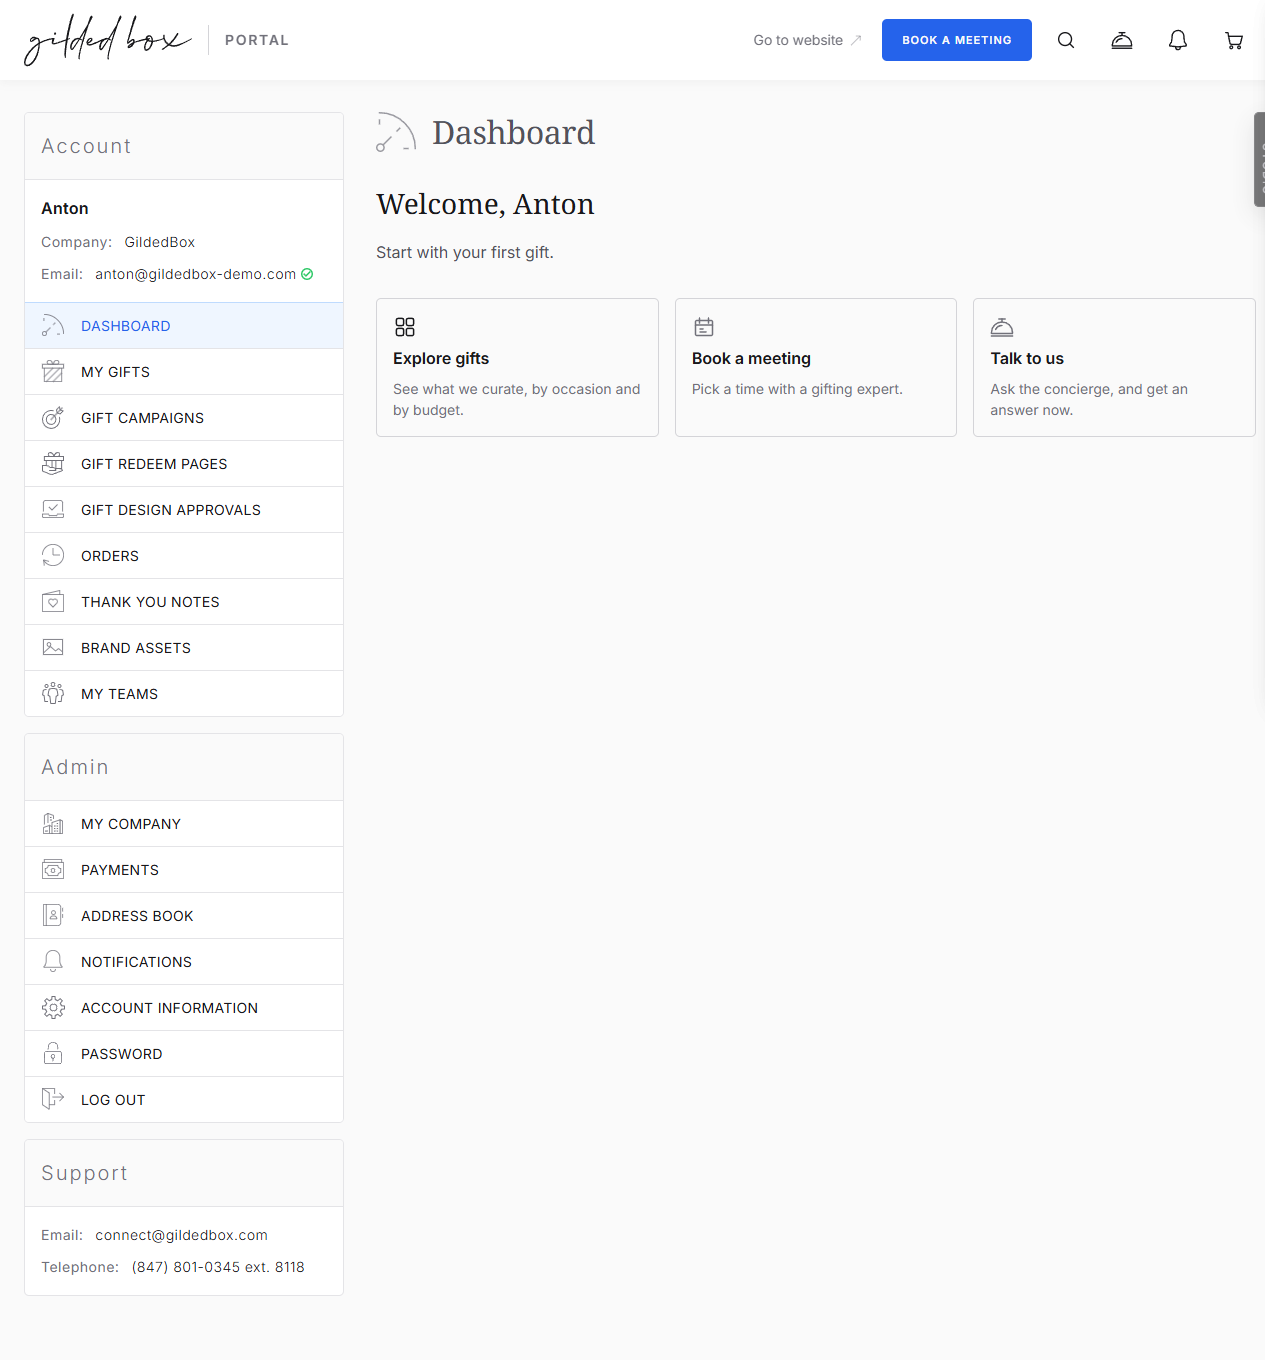
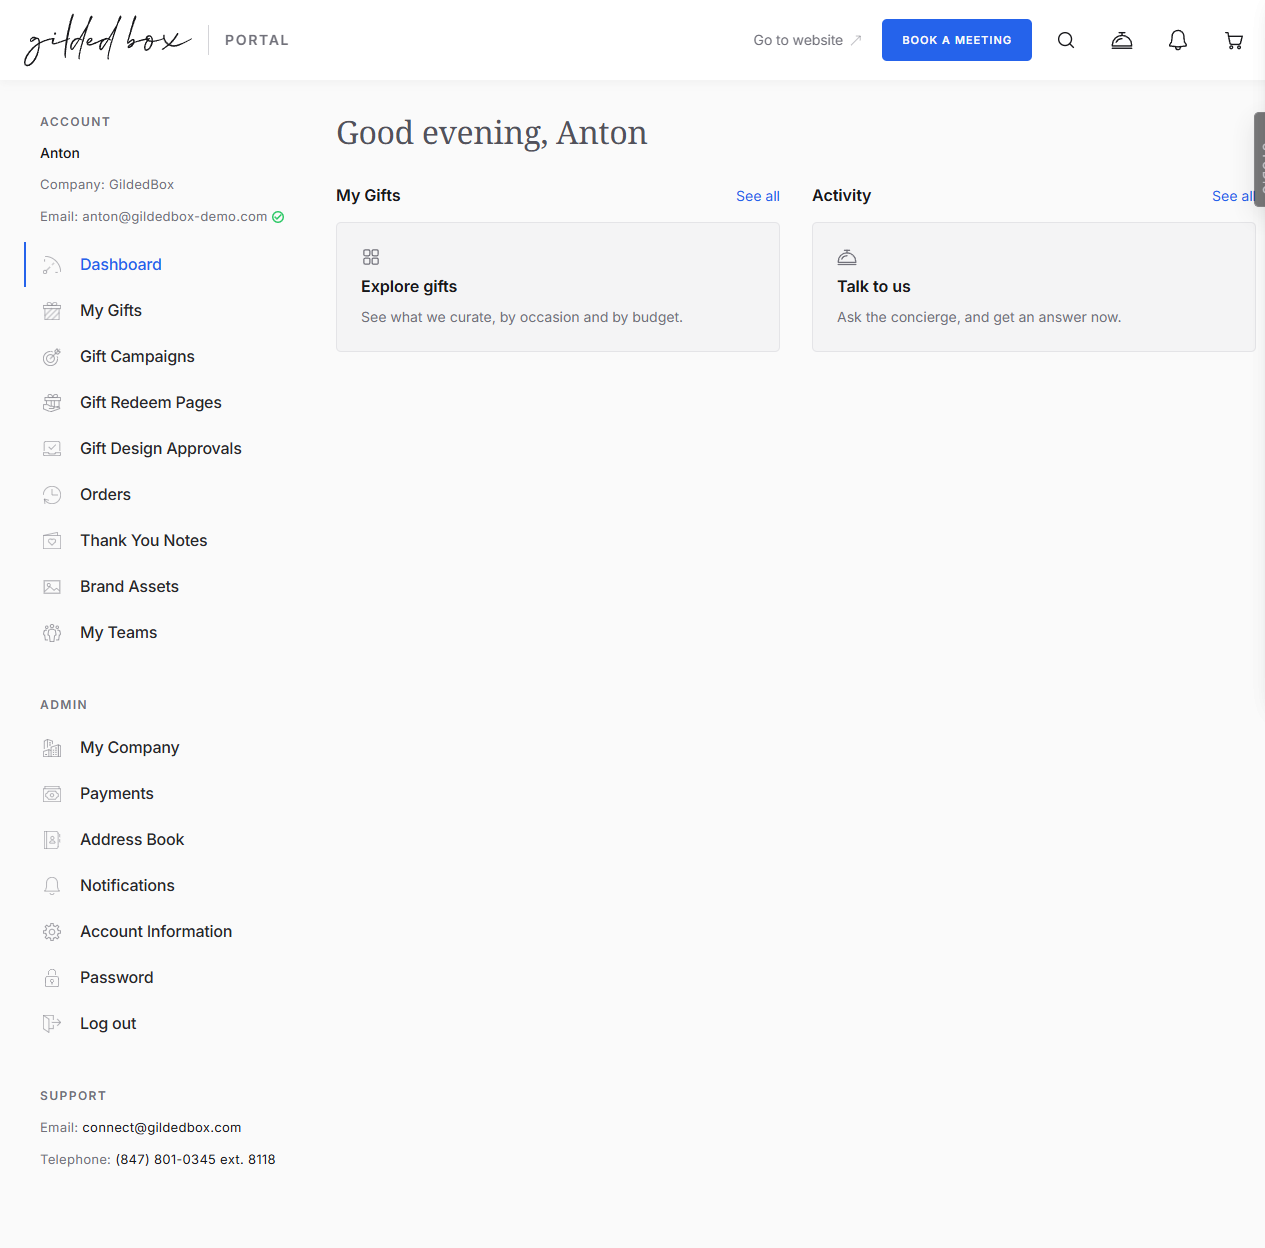
feat(portal): the page opens by greeting you, and a new account has two blocks instead of three
THE TITLE IS THE GREETING NOW, in both states. «Dashboard» left the
canvas because the rail already says where you are, and the recon
Ton read this evening (studio\docs\DASHBOARD-GREETING-RECON.md) found
no confirmed product that prints a page name and a greeting as two
headings: of the two whose first line could be confirmed word for
word, both print the greeting and neither prints the name.

So the slot and the role are unchanged, the live portal's own
.page-title, and what stands in it is Good morning / Good afternoon
/ Good evening with the name, off the machine's own clock at the
ordinary English boundaries (5, 12, 18). There is no second line: no
date, no strapline. The speedometer went with the word it
accompanied, because a glyph beside «Good evening» illustrates
nothing. Customize stays where it was.

THE EMPTY ACCOUNT LOST ITS WELCOME BLOCK, which now says the same
thing in the title, and it lost the Campaigns block entirely: a
campaign is a gift plus a distribution, so there is nothing to
invite someone to create before they own a gift. Two blocks stand
instead of three and the board re-splits by the standard mechanism.

AND THE NEW DEFAULT CAUGHT A BUG BY CHANGING: body[data-nav="ton"]
.sidebar sets 280px at a higher specificity than the bare .sidebar
of the phone rule, so from the moment the boxless rail became the
default, everything under 1024 kept a 280px rail and squeezed the
board to ONE PIXEL. Measured at 360: layout 345, rail 280, board 1.
[…]

diff --git a/live/portal-dashboard.html b/live/portal-dashboard.html
@@ -209,13 +209,6 @@ html { scroll-padding-top: calc(var(--header-h) + var(--space-16)); }
   gap: var(--space-16);
   margin-bottom: var(--space-32);
 }
-.gbppd-head__icon {
-  width: 40px;                  /* LIVE 12.08 portal .title-icon */
-  height: 40px;
-  flex-shrink: 0;
-  display: block;
-  opacity: .7;                  /* the rail draws this glyph at 24; at 40 the same line needs its ink taken down a step */
-}
 .gbppd-title {
   margin: 0;
   font-family: var(--font-serif);
@@ -419,6 +412,13 @@ a.gbppd-act, body.gb-demo a.gbppd-act { color: var(--zinc-900); }
 /* THE EMPTY ACCOUNT: no tabs, no lists, and the door grown up. */
 html[data-gbppd-state="empty"] .gbppd-tabs,
 html[data-gbppd-state="empty"] .gbppd-panes { display: none; }
+/* AND A NEW ACCOUNT HAS NO CAMPAIGNS BLOCK AT ALL (Ton, 10.09): a
+   campaign is a gift plus a distribution, so there is nothing to
+   invite anyone to create before they own a gift. The block does not
+   exist, and the board re-splits into the two that do, by the
+   standard mechanism: a display:none grid item leaves the auto
+   tracks and the rest divide the width. */
+html[data-gbppd-state="empty"] [data-gbppd-widget="campaigns"] { display: none; }
 html[data-gbppd-state="empty"] .gbppd-act {
   flex-direction: column;
   align-items: flex-start;
@@ -1400,7 +1400,14 @@ body[data-nav="ton"] .snav-icon img { max-width: 18px; max-height: 18px; opacity
    at all. Carried across verbatim rather than re-decided. */
 @media (max-width: 1023px) {
   .layout { flex-wrap: wrap; }
-  .sidebar { order: 2; width: 100%; }
+  /* THE BOXLESS RAIL HAS TO BE NAMED HERE TOO, and this is a bug the
+     default caught the moment it changed: body[data-nav="ton"]
+     .sidebar sets 280px at a higher specificity than a bare
+     .sidebar, so under 1024 the rail kept its 280 and the content
+     column was squeezed to ONE PIXEL. Measured, not guessed: at 360
+     the layout was 345 wide, the rail 280 and the board 1. */
+  .sidebar,
+  body[data-nav="ton"] .sidebar { order: 2; width: 100%; }
 }
 
 /* ============================================================
@@ -1417,64 +1424,6 @@ body[data-nav="ton"] .snav-icon img { max-width: 18px; max-height: 18px; opacity
    console row «Account · Active | New».
    ============================================================ */
 html[data-gbppd-state="empty"] .gbppd-filled { display: none; }
-html:not([data-gbppd-state="empty"]) .gbppd-emptyzone { display: none; }
-
-/* THE NEW ACCOUNT, AFTER THE LAW OF THE SURFACE. What stood here was
-   the page title, then a BIGGER serif «Welcome, Anton» under it, then
-   two lines in a third register. Now: the page title, one working
-   line that opens with the welcome, and the doors.
-
-   The greeting is the working voice on purpose. A portal page is
-   named by what it is (the rail says Dashboard and so does the
-   title); who is looking is a fact of the sentence, not a headline. */
-.gbppd-emptyzone { padding-block: 0 var(--space-16); }
-/* THE WELCOME IS THE LEADING CONTENT OF AN EMPTY PAGE (Ton, 10.09,
-   on the under-weighted line: it has nothing to compete with here and
-   it deserves the weight). Serif 24/300 in the ink, rhyming with the
-   .hs-title of live\portal.html (serif 32/300, one step up because it
-   owns a hero); the page title above it stays the grey 32 that names
-   the place, and this is the zone's own subject. Two voices on the
-   surface: this one leads, the line under it works. */
-.gbppd-empty__hi {
-  margin: 0;
-  font-family: var(--font-serif);
-  font-size: 24px;
-  line-height: 1.4;
-  font-weight: 300;
-  color: var(--zinc-900);
-}
-@media (min-width: 1280px) { .gbppd-empty__hi { font-size: 28px; } }
-/* One section from the welcome to the doors, half of it inside the
-   welcome: the same 2:1 the filled page keeps. */
-.gbppd-emptyzone .gbppd-doors { margin-top: var(--space-32); }
-.gbppd-empty__say {
-  /* The welcome is a heading and this is its content, so the law
-     measures this gap too: 16 inside, 32 between. */
-  margin: var(--space-16) 0 0;
-  max-width: 44rem;
-  font-size: 16px;
-  line-height: 1.7;
-  color: var(--zinc-600);
-}
-.gbppd-empty__door {
-  display: flex;
-  flex-direction: column;
-  gap: var(--space-8);
-  padding: var(--space-24);
-  text-decoration: none;
-  color: var(--zinc-900);
-  transition: box-shadow var(--mo-micro) var(--mo-move), border-color var(--mo-micro) var(--mo-move);
-}
-a.gbppd-empty__door, body.gb-demo a.gbppd-empty__door { color: var(--zinc-900); }
-.gbppd-empty__door:hover { border-color: var(--zinc-300); box-shadow: var(--shadow-card); }
-.gbppd-empty__door .gb-icon { color: var(--zinc-500); }
-/* THE FIRST DOOR LEADS, and it says so with ink rather than with a
-   fourth type role: everything in this house starts at the catalogue,
-   and a new account has nothing to campaign with until it has chosen
-   a gift. One step of ink, no new voice. */
-.gbppd-empty__door--lead .gb-icon { color: var(--zinc-900); }
-.gbppd-empty__door b { font-size: 16px; font-weight: 600; line-height: 1.4; }
-.gbppd-empty__door span { font-size: 14px; line-height: 1.5; color: var(--zinc-500); }
 
 /* The rows of the Customize drawer. The switch is the house toggle,
    small, the same object the checkout uses for One / Different
@@ -1642,29 +1591,25 @@ a.gbppd-empty__door, body.gb-demo a.gbppd-empty__door { color: var(--zinc-900); 
       <main class="content" id="dashboard">
 
       <!-- One line, and it is the name of the place. -->
-      <!-- The portal's own title card: glyph, ONE heading, one control
-           at the far end. The role is live portal.html's .page-title,
-           value for value. -->
+      <!-- THE GREETING IS THE TITLE (10.09, Ton on the recon in
+           studio\docs\DASHBOARD-GREETING-RECON.md). «Dashboard» left
+           the canvas: the rail already says where you are, and of the
+           two products whose first line the recon could confirm word
+           for word, both print a greeting and neither prints the page
+           name. One large line, nothing under it, and the glyph went
+           with the word it accompanied: a speedometer beside «Good
+           evening» is a picture of nothing. The role and the slot are
+           the live portal's .page-title, unchanged. -->
       <div class="gbppd-head">
-        <img class="gbppd-head__icon" src="../system/icons/metrics.svg" alt="" aria-hidden="true">
-        <h1 class="gbppd-title">Dashboard</h1>
+        <h1 class="gbppd-title" id="gbppdHello">Good day, Anton</h1>
         <button class="gb-btn gb-btn--small gb-btn--ghost gb-btn--secondary" type="button" id="gbppdCustomize"><span class="gb-btn__icon" aria-hidden="true"><span data-gb-icon="sliders" data-gb-icon-size="16"></span></span><span class="gb-btn__label">Customize</span></button>
       </div>
 
-      <!-- ============ THE NEW ACCOUNT ============
-           One heading (the page title above it), one working line that
-           opens with the welcome, three doors.
-
-           AND «CREATE A CAMPAIGN» IS NOT ONE OF THEM (Ton, 10.09). The
-           domain says why: a campaign is a GIFT plus a distribution,
-           and an account that has not chosen a gift has nothing to
-           distribute. Offering it first is offering the second step.
-           The first moves a new account really has are the catalogue,
-           the meeting and the concierge, in that order. -->
-      <section class="gbppd-emptyzone" aria-label="Getting started">
-        <h2 class="gbppd-empty__hi">Welcome, Anton</h2>
-        <p class="gbppd-empty__say">Start with your first gift.</p>
-      </section>
+      <!-- THE WELCOME BLOCK OF THE EMPTY ACCOUNT IS GONE (10.09):
+           the greeting in the title says the same thing to everyone,
+           and two welcomes on one screen was the noise this page has
+           spent the day taking off itself. What a new account has
+           instead is its blocks with their doors grown up. -->
 
       <!-- ============ 1 · METRICS, THE TOP ROW ============
            Four numbers, and they agree with every row on the board.
@@ -2266,6 +2211,26 @@ a.gbppd-empty__door, body.gb-demo a.gbppd-empty__door { color: var(--zinc-900); 
     writeKey('nav', nav);
   }
   setNav(nav);
+
+  /* ============================================================
+     THE TIME OF DAY, HONESTLY                gbppl-portal-dashboard-9
+     ------------------------------------------------------------
+     One rule for both states, read off the machine's own clock:
+       05:00 - 11:59  Good morning
+       12:00 - 17:59  Good afternoon
+       18:00 - 04:59  Good evening
+     The ordinary English boundaries, nothing personalised beyond the
+     hour and the name, and no second line under it.
+     ============================================================ */
+  function greet() {
+    var h = new Date().getHours();
+    var word = (h >= 5 && h < 12) ? 'Good morning'
+             : (h >= 12 && h < 18) ? 'Good afternoon'
+             : 'Good evening';
+    var el = document.getElementById('gbppdHello');
+    if (el) el.textContent = word + ', Anton';
+  }
+  greet();
 
   var startState = 'filled';
   try {
